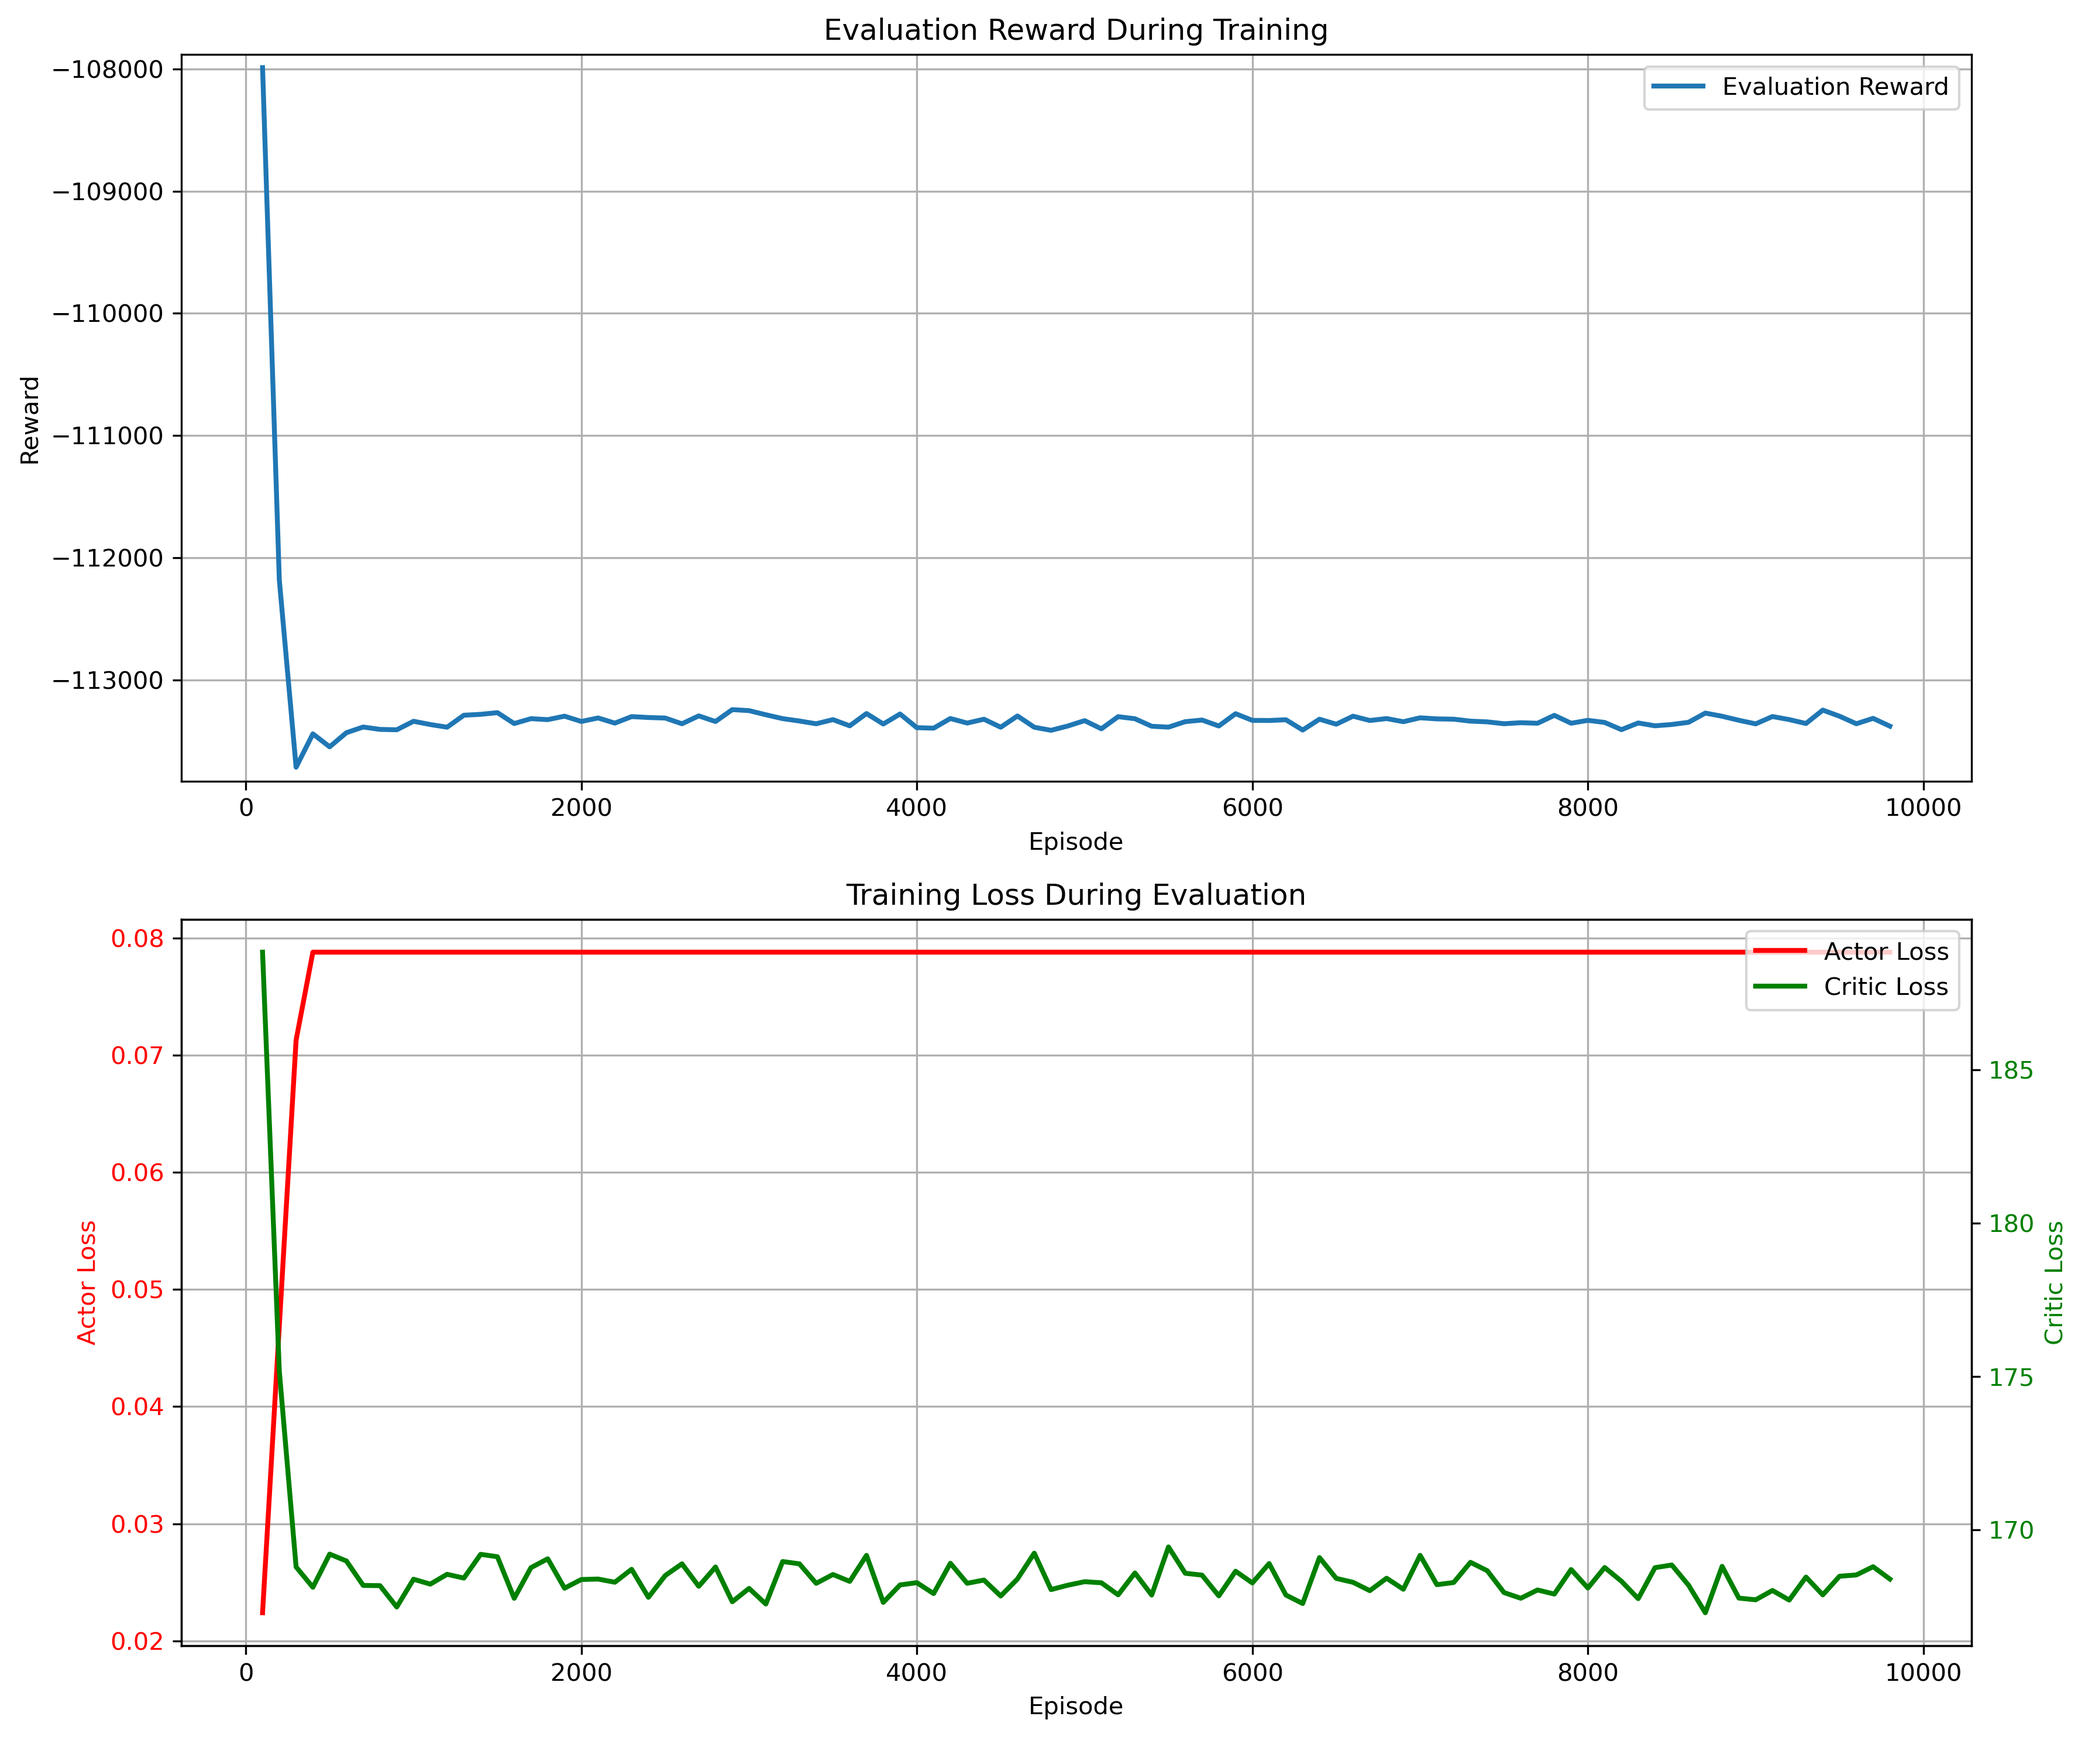
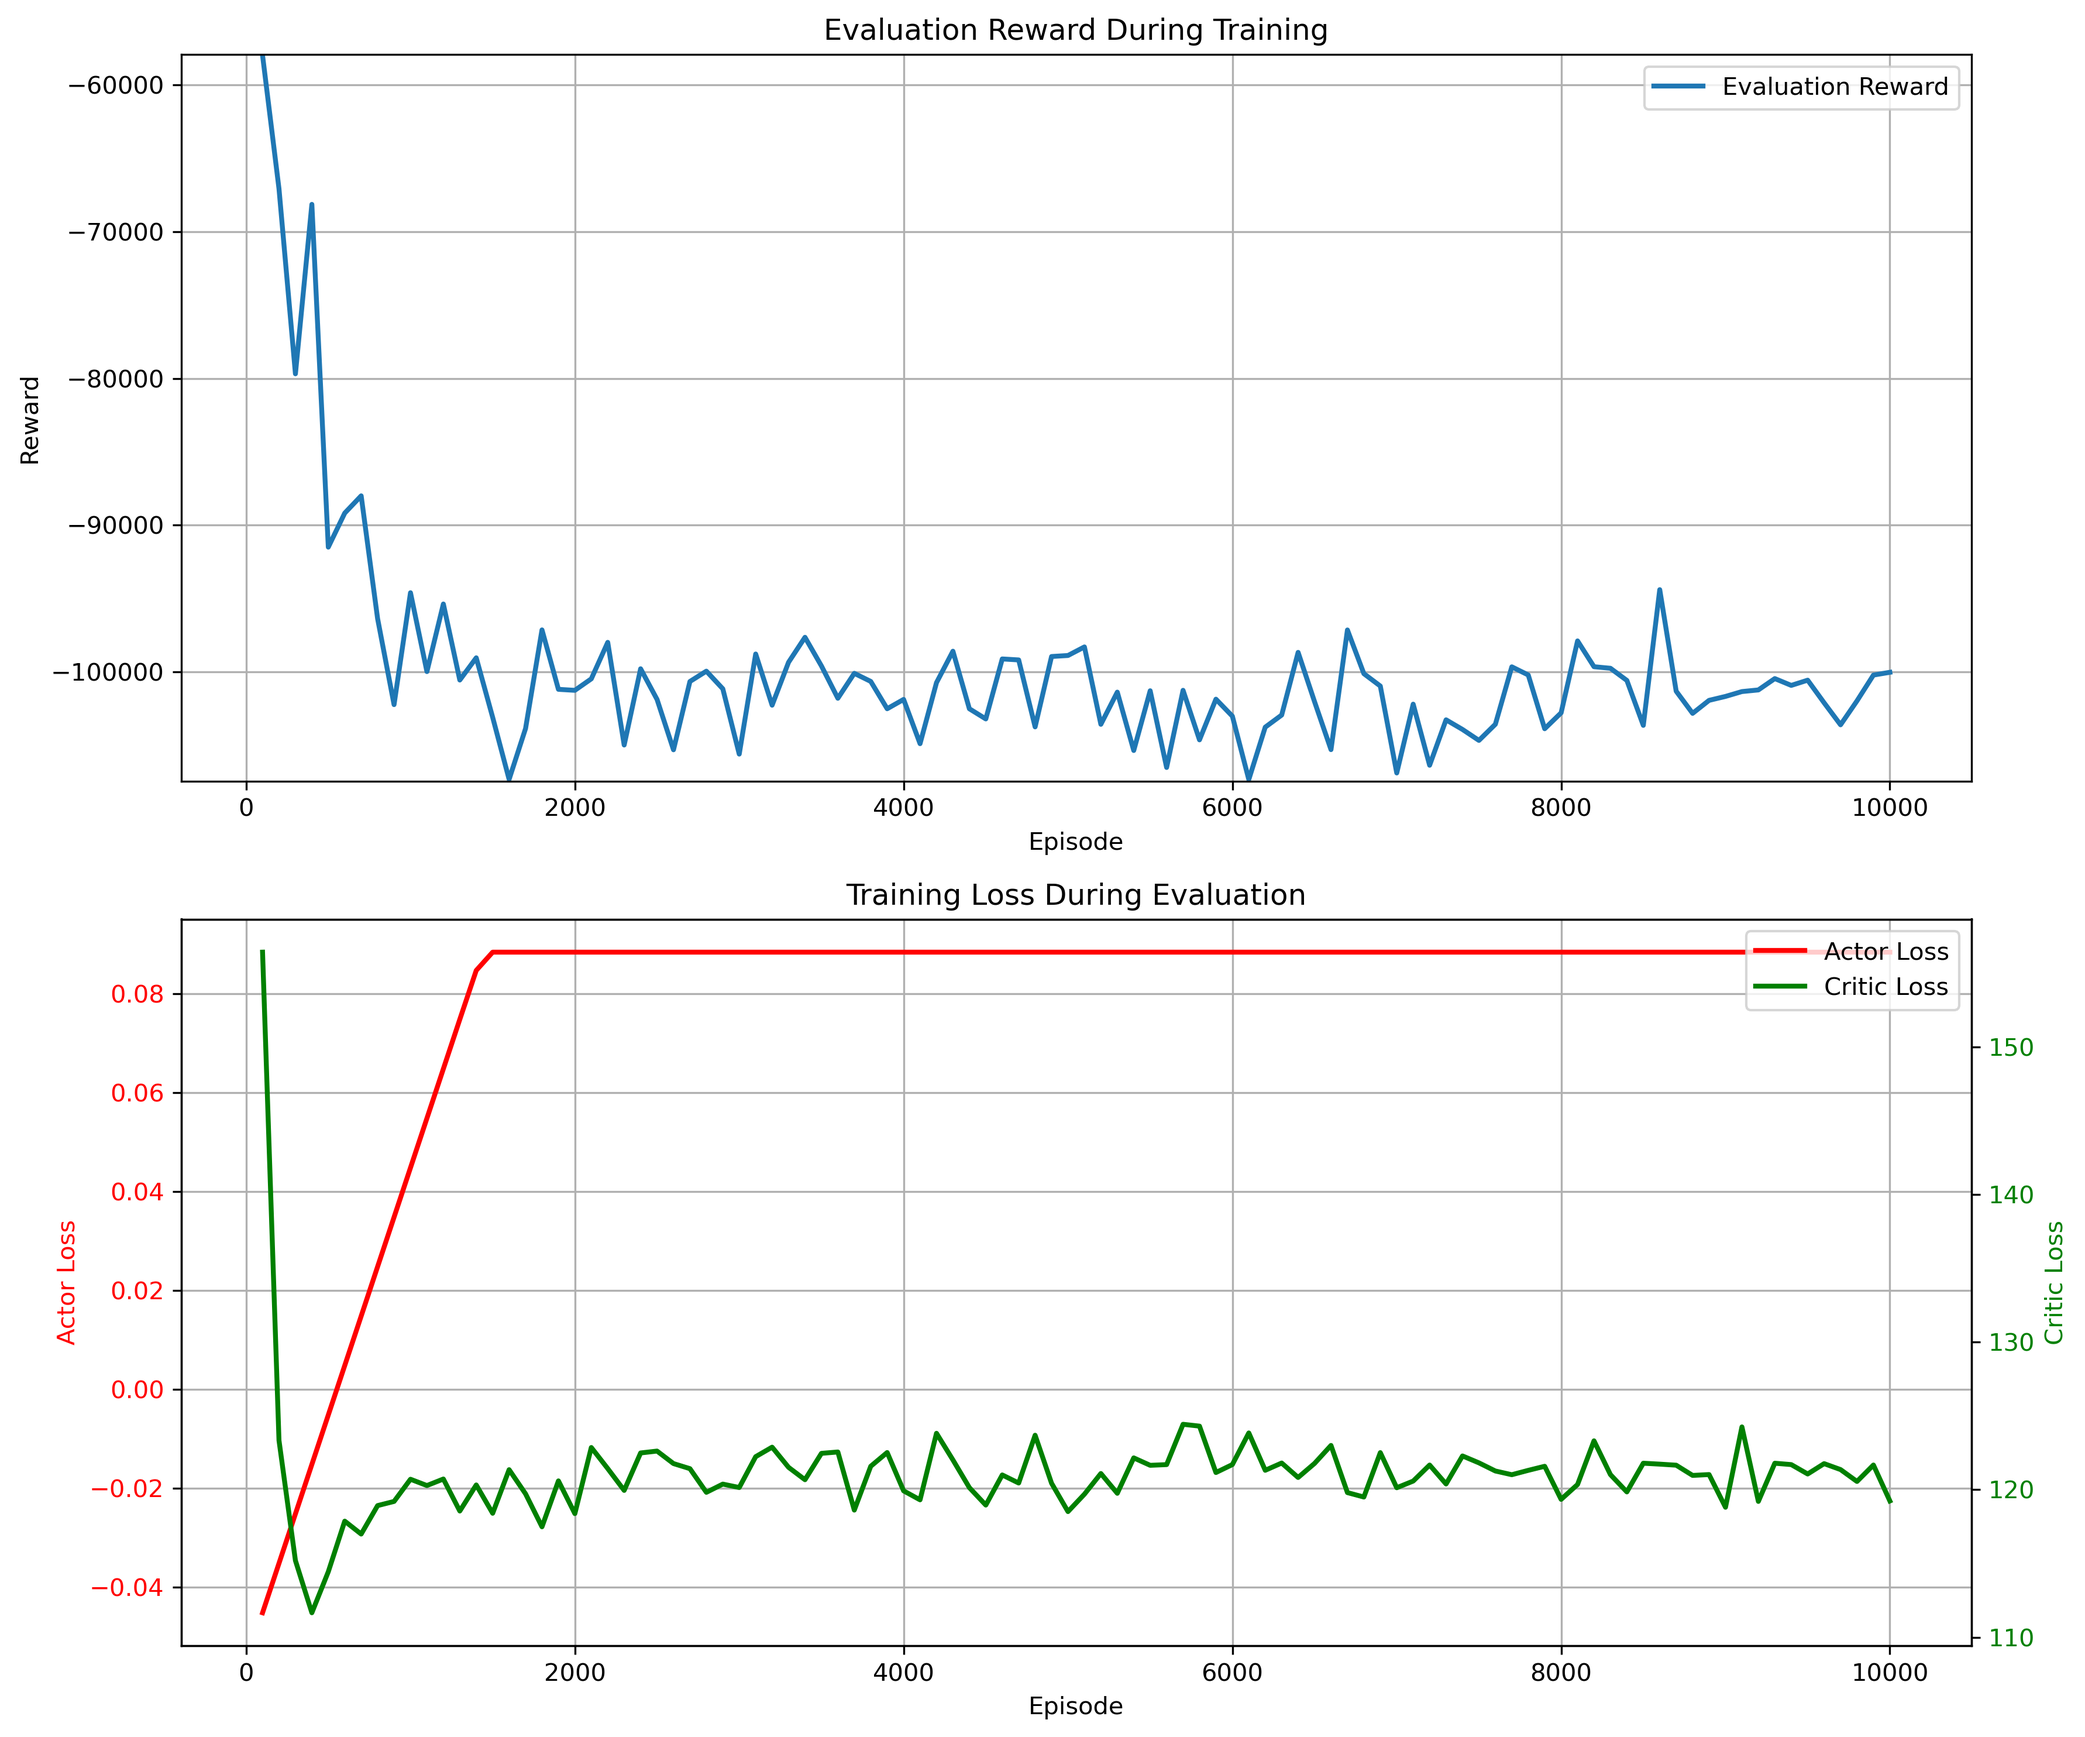
202505250811

diff --git a/env.py b/env.py
@@ -22,7 +22,7 @@ class DroneEnv(gym.Env):
         self.drone_pos = np.zeros(3)
         self.drone_vel = np.zeros(3)
         # 大家可以在这里自由修改目标位置
-        self.target_pos = np.array([-15, 30, 20])
+        self.target_pos = np.array([5, 5, 5])
         self.wind_speed = np.zeros(3) 
         # 定义块状障碍物，每个障碍物由左下角和右上角坐标表示
         self.obstacles = [
@@ -30,7 +30,7 @@ class DroneEnv(gym.Env):
             (np.array([-15, -15, 0]), np.array([-10, -10, 10]))
         ]
         self.time_step = 0
-        self.max_time_steps = 500  # 降低最大步数
+        self.max_time_steps = 500  
         self.prev_vel = np.zeros(3)
         self.prev_distance = np.inf
 
@@ -47,26 +47,25 @@ class DroneEnv(gym.Env):
             [-np.sin(pitch), np.cos(pitch) * np.sin(roll), np.cos(pitch) * np.cos(roll)]
         ])
         thrust_vector = np.array([0,0,thrust])
-        gravity = np.array([0, 0, -9.81])  # 重力加速度
+        gravity = np.array([0, 0, -0.3])
         acceleration = np.dot(rotation_matrix, thrust_vector) + wind_force + gravity
         self.drone_vel += acceleration * 0.1
         self.drone_pos += self.drone_vel * 0.1
 
+        # 限制位置和速度
+        self.drone_pos = np.clip(self.drone_pos, -50, 50)
+        self.drone_vel = np.clip(self.drone_vel, -20, 20)
+
         # 计算距离奖励
-        distance_to_target = np.linalg.norm(self.drone_pos - self.target_pos)
-        
-        # 计算距离改善
-        distance_improvement = self.prev_distance - distance_to_target
-        
-        # 基础距离奖励（负距离，越近奖励越大）
-        distance_reward = -1.0 * distance_to_target  # 增加权重
-        
-        # 距离改善奖励（鼓励向目标移动）
-        improvement_reward = 20.0 * distance_improvement  # 增加权重
-        
-        # 远离惩罚（当距离增加时给予惩罚）
-        if distance_improvement < 0:
-            improvement_reward = 20.0 * distance_improvement  # 负的改善会变成惩罚
+        distance_to_target = np.linalg.norm(self.drone_pos - self.target_pos) 
+        distance_reward = -np.exp(distance_to_target / 10.0)
+
+        # 计算速度方向奖励
+        direction_to_target = self.target_pos - self.drone_pos
+        direction_to_target = direction_to_target / (np.linalg.norm(direction_to_target) + 1e-8)
+        velocity_projection = np.dot(self.drone_vel, direction_to_target)
+        velocity = np.linalg.norm(self.drone_vel)
+        velocity_direction_reward = 2.0 * velocity_projection
         
         # 成功奖励
         success_reward = 0
@@ -76,8 +75,7 @@ class DroneEnv(gym.Env):
             print('Success!')
             done = True
 
-        # 组合奖励
-        reward = distance_reward + improvement_reward + success_reward
+        reward = distance_reward + success_reward + velocity_direction_reward
 
         # 检查是否超过最大时间步
         self.time_step += 1
@@ -92,7 +90,7 @@ class DroneEnv(gym.Env):
         # if self.time_step % 100 == 0:  # 每100步记录一次
         #     print(f"\n奖励函数构成 (Step {self.time_step}):")
         #     print(f"距离奖励: {distance_reward:.2f}")
-        #     print(f"改善奖励: {improvement_reward:.2f}")
+        #     print(f"速度奖励: {velocity_direction_reward:.2f}")
         #     print(f"成功奖励: {success_reward:.2f}")
         #     print(f"总奖励: {reward:.2f}")
         #     print(f"当前距离: {distance_to_target:.2f}")
@@ -111,7 +109,7 @@ class DroneEnv(gym.Env):
         self.drone_pos = np.zeros(3)
         self.drone_vel = np.zeros(3)
         # 目标位置在这里也需要同步修改
-        self.target_pos = np.array([-15, 30, 20])
+        self.target_pos = np.array([5, 5, 5])
         self.wind_speed = np.zeros(3)
         self.time_step = 0
         self.prev_distance = np.linalg.norm(self.drone_pos - self.target_pos)

diff --git a/Agent.py b/Agent.py
@@ -21,23 +21,23 @@ class PPOAgent:
         self.gae_lambda = 0.95  # 保持适中的GAE参数
         self.epsilon = 0.2  # 保持PPO裁剪参数
         self.epochs = 10  # 保持训练轮数
-        self.entropy_coef = 0.05  # 增加熵系数以促进探索
+        self.entropy_coef = 0.10
         self.value_coef = 0.5
         self.max_grad_norm = 0.5
         
         # 学习率衰减
-        self.actor_lr = 1e-4
-        self.critic_lr = 1e-4
+        # self.actor_lr = 1e-4
+        # self.critic_lr = 1e-4
         self.lr_decay = 0.999
         
         # 动作噪声
-        self.action_std = 0.2  # 增加动作噪声以促进探索
-        self.action_std_decay = 0.9995
-        self.min_action_std = 0.05
+        self.action_std = 0.4  
+        self.action_std_decay = 0.9999
+        self.min_action_std = 0.1
 
         # 优化器使用较小的学习率
-        self.actor_opt = torch.optim.Adam(self.actor.parameters(), lr=1e-4)
-        self.critic_opt = torch.optim.Adam(self.critic.parameters(), lr=1e-4)
+        self.actor_opt = torch.optim.Adam(self.actor.parameters(), lr=3e-4)
+        self.critic_opt = torch.optim.Adam(self.critic.parameters(), lr=3e-4)
 
         # Action space parameters
         self.action_high = np.array([1.0, np.pi/2, np.pi/2, np.pi/2])

diff --git a/test.py b/test.py
@@ -18,15 +18,15 @@ ACTION_DIM = env.action_space.shape[0]
 agent = PPOAgent(state_dim=STATE_DIM, action_dim=ACTION_DIM)
 
 # 加载模型
-checkpoint_path = 'results/20250524_202559/models/checkpoint_9000'
+checkpoint_path = 'results/20250525_013718/models/best_model'
 agent.load(checkpoint_path)
 
 trajectory = []
 ret = 0
 
 state = env.reset()
-for j in range(env.max_time_steps):  # 使用环境的max_time_steps
-    action, _, _ = agent.get_action(state)  # 更新get_action的调用
+for j in range(env.max_time_steps): 
+    action, _, _ = agent.get_action(state) 
     next_state, reward, done, _ = env.step(action)
     drone_pos = next_state[:3]
     trajectory.append(drone_pos)

diff --git a/visualize_training.py b/visualize_training.py
@@ -113,7 +113,7 @@ def plot_training_curves(eval_episodes, eval_rewards, actor_losses, critic_losse
     plt.close()
 
 def main():
-    log_file = 'results/20250524_202559/logs/training.log'
+    log_file = 'results/20250525_013718/logs/training.log'
     try:
         eval_episodes, eval_rewards, actor_losses, critic_losses = parse_log_file(log_file)
         print(f"Found {len(eval_episodes)} evaluation points")

diff --git a/train.py b/train.py
@@ -153,7 +153,7 @@ def train():
 
     # 记录配置信息
     config = {
-        'max_episodes': 20000,
+        'max_episodes': 10000,
         'steps_per_episode': env.max_time_steps,  # 使用环境的max_time_steps
         'eval_freq': 100,
         'save_freq': 1000
